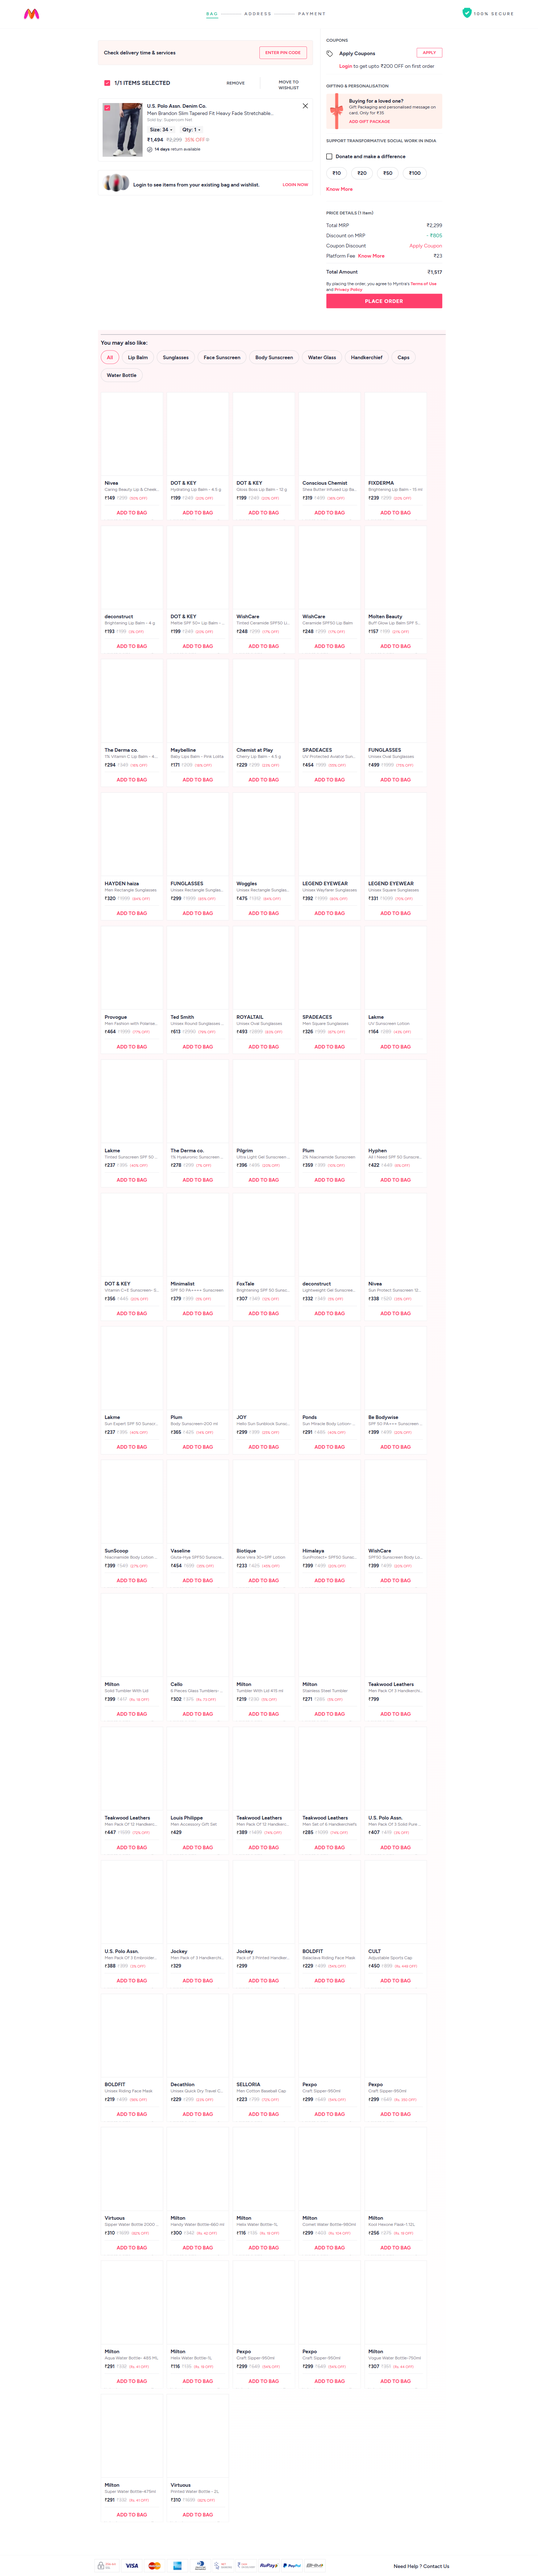
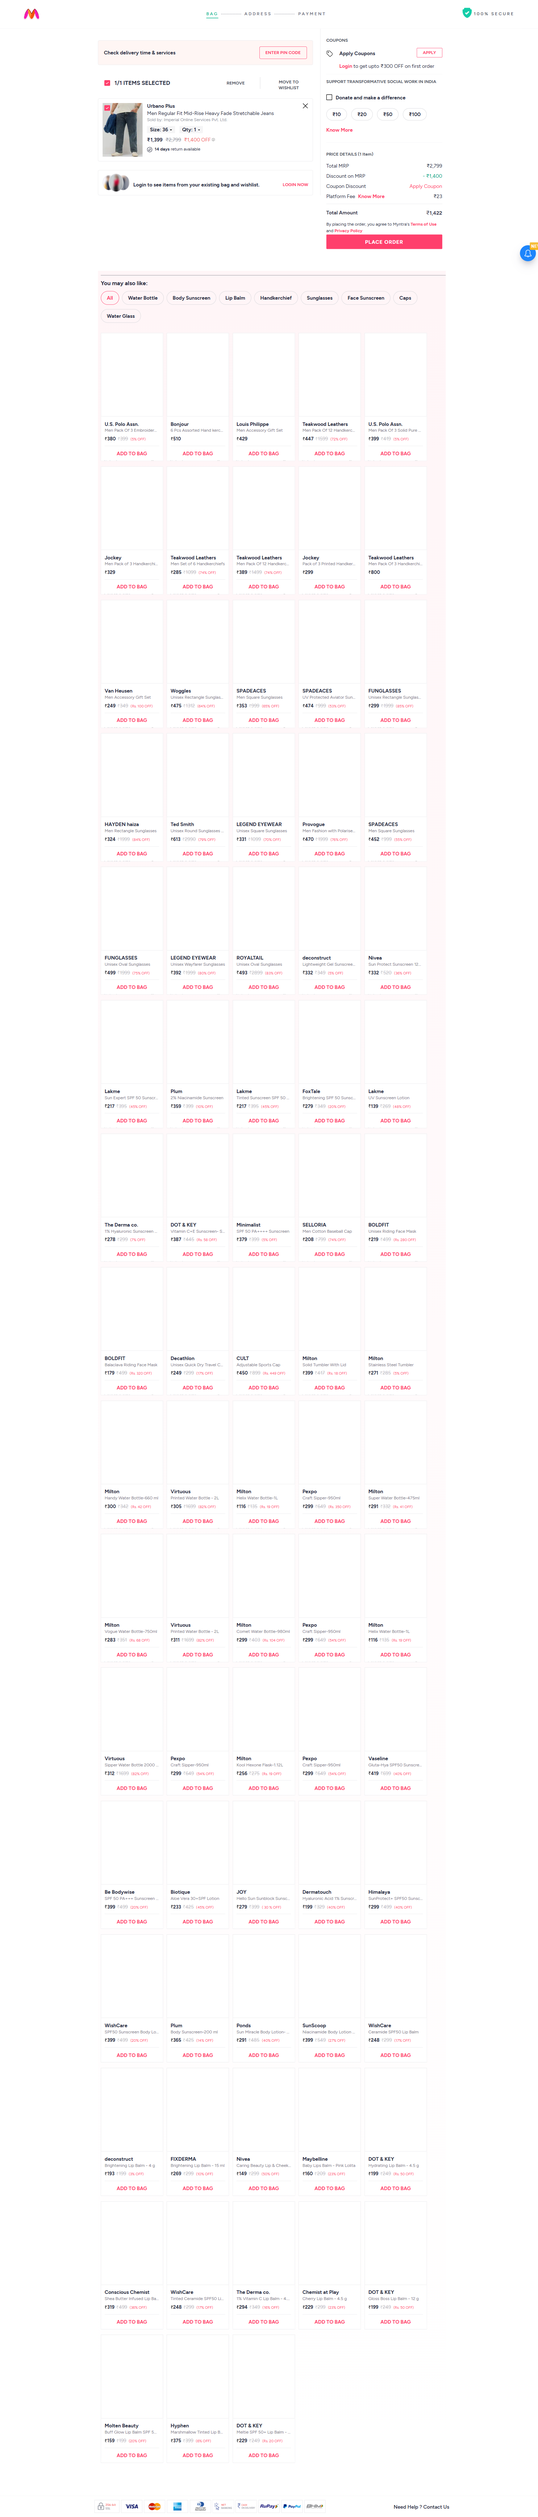
pw

diff --git a/tests/datadriven2.spec.ts b/tests/datadriven2.spec.ts
@@ -1,0 +1,45 @@
+import { expect, test, Page, Locator } from "@playwright/test";
+import loginData from "../testdata/credentials.json";
+
+test("datadriven testing-2", async ({ page }) => {
+  for (const environment in loginData) {
+    console.log("Environment", environment);
+    if (environment === process.env.ENV) {
+      console.log(`Executing the test case in ${environment} environment`);
+      const environmentData = loginData[environment as keyof typeof loginData];
+      await page.goto(environmentData.url);
+      await page.getByPlaceholder("E-Mail Address").fill(environmentData.username);
+      await page.getByPlaceholder("Password").fill(environmentData.password);
+      await page.locator("input[value='Login']").click();
+    }
+  }
+
+  //await page.pause();
+});
+
+test("datadriven testing-4", async ({ page }) => {
+      const environmentData = loginData[process.env.ENV as keyof typeof loginData];
+      await page.goto(environmentData.url);
+      await page.getByPlaceholder("E-Mail Address").fill(environmentData.username);
+      await page.getByPlaceholder("Password").fill(environmentData.password);
+      await page.locator("input[value='Login']").click();
+      //await page.pause();
+});
+
+Object.entries(loginData).forEach(([environment, details]) => {
+  test(`datadriven testing ${environment}`, async ({ page }) => {
+    console.log("Environment", environment);
+    if (environment === process.env.ENV) {
+      console.log(`Executing the test case in ${environment} environment`);
+      await page.goto(details.url);
+      await page.getByPlaceholder("E-Mail Address").fill(details.username);
+      await page.getByPlaceholder("Password").fill(details.password);
+      await page.locator("input[value='Login']").click();
+    }
+  });
+});
+
+// In Mac, ENV="QA" npx playwright test tests/datadriven2.spec.ts
+
+//In windows, $env:ENV="QA"
+//npx playwright test tests/datadriven2.spec.ts

diff --git a/tests/frames.spec.ts b/tests/frames.spec.ts
@@ -15,14 +15,14 @@ test.describe("Handling Iframes",()=>{
         await expect(iframe.getByRole('paragraph')).toContainText("This is an embedded inline frame.");
         await iframe.getByRole('button', {name:'Click Me Inside'}).click();
         await expect(iframe.locator("#iframeMsg")).toContainText("Button inside iframe was clicked!");
-        await page.pause();
+        //await page.pause();
     })
 })
 
 test("handling single frame", async({page})=>{
     await page.goto("https://demo.automationtesting.in/Frames.html");
     await page.frameLocator("#singleframe").getByRole("textbox").fill("Playwright");
-    await page.pause();
+    //await page.pause();
 })
 
 test("handling nested frames", async({page})=>{
@@ -38,7 +38,7 @@ test("handling nested frames", async({page})=>{
     console.log(await outerFrame.getByRole('heading').textContent());
     console.log(await innerFrame.getByRole('heading').textContent());
 
-    await page.pause();
+    //await page.pause();
 })
 
 test("handling single frame without attributes", async({page})=>{
@@ -48,7 +48,7 @@ test("handling single frame without attributes", async({page})=>{
 
     page.frames().filter(frame => frame.url().includes('SingleFrame.html'))[0].getByRole('textbox').fill("Playwright automation");
 
-    await page.pause();
+    //await page.pause();
 })
 
 test("handling nested frames without attributes", async({page})=>{
@@ -64,5 +64,5 @@ test("handling nested frames without attributes", async({page})=>{
     
     await innerFrame.getByRole("textbox").fill("Playwright with Typescript");
 
-    await page.pause();
+   // await page.pause();
 })

diff --git a/tests/calendar.spec.ts b/tests/calendar.spec.ts
@@ -1,0 +1,33 @@
+import { expect, test, Page, Locator } from '@playwright/test'
+
+const APP_URL = "https://nagarjunreddykasu.github.io/web-automation-practice-site/";
+
+test.beforeEach(async({page})=>{
+    await page.goto(`${APP_URL}`);
+    await page.getByRole("link", {name:'Interactions'}).click();
+})
+
+test("select a date from calendar", async({page})=>{
+    await page.getByPlaceholder("Select a date").click();
+    await page.getByRole('button', {name:'25'}).click();
+
+    //await page.pause();
+})
+
+test("select a current date", async({page})=>{
+    await page.getByPlaceholder("Select a date").click();
+    await page.locator(".dp-day.today").click();
+    //await page.pause();
+
+})
+
+test("select a future date @sanity", async({page})=>{
+    await page.getByPlaceholder("Select a date").click();
+    while(await page.locator('#dpMonthYear').innerText() !== 'December 2026'){
+        //await page.locator('#dpNext').click();
+        await page.getByRole('button', {name:'▶'}).click();
+        //await page.waitForTimeout(2000);
+    }
+
+    await page.getByRole('button', {name:'31'}).click();
+})

diff --git a/tests/dragdrop.spec.ts b/tests/dragdrop.spec.ts
@@ -1,0 +1,21 @@
+import { expect, test, Page, Locator } from '@playwright/test'
+
+const APP_URL = "https://nagarjunreddykasu.github.io/web-automation-practice-site/";
+
+test.beforeEach(async({page})=>{
+    await page.goto(`${APP_URL}`);
+    await page.getByRole("link", {name:'Interactions'}).click();
+})
+
+test("handle drag and drop", async({page})=>{
+
+    await page.getByPlaceholder("Select a date").scrollIntoViewIfNeeded();
+    //sourceitem.dragTo(target/destination)
+    const sourceItem = page.locator("#dndSource [data-id='1']");
+    const target = page.locator("#dndTarget");
+    await sourceItem.dragTo(target);
+    await expect(page.locator("#dndOutput")).toContainText("Available: 3, Dropped: 1");
+
+    await page.pause();
+
+})

diff --git a/tests/myntra.spec.ts b/tests/myntra.spec.ts
@@ -28,7 +28,7 @@ test("validate the product in myntra", async({page})=>{
     if(!childWindow)
         throw new Error("Child window is not found");
 
-    await childWindow.getByRole("button", {name:'34'}).click();
+    await childWindow.getByRole("button", {name:'36'}).click();
     //await childWindow.getByRole("button", {name:'ADD TO BAG'}).click();
     await childWindow.getByText("ADD TO BAG", {exact:true}).click();
     await childWindow.getByText("Bag", {exact:true}).click();
@@ -39,5 +39,5 @@ test("validate the product in myntra", async({page})=>{
 
     await page.getByText("Bag", {exact:true}).click();
     await expect(page.getByText(lastProductName)).toBeVisible();
-    await page.pause();
+    //await page.pause();
 })

diff --git a/tests/datadriven1.spec.ts b/tests/datadriven1.spec.ts
@@ -1,0 +1,14 @@
+import { expect, test, Page, Locator } from '@playwright/test'
+import loginData from '../testdata/login.json'
+
+test("Lambdatest login1", async({page})=>{
+    for(const data of loginData){
+        await page.goto(data.url);
+        await page.getByPlaceholder("E-Mail Address").fill(data.username);
+        await page.getByPlaceholder("Password").fill(data.password);
+        await page.locator("input[value='Login']").click();
+    }
+    
+    await page.pause();
+
+})

diff --git a/playwright.config.ts b/playwright.config.ts
@@ -24,7 +24,7 @@ export default defineConfig({
   /* Reporter to use. See https://playwright.dev/docs/test-reporters */
   reporter: 'html',
 
-  timeout:120000,
+  timeout:30000,
   /* Shared settings for all the projects below. See https://playwright.dev/docs/api/class-testoptions. */
   use: {
     /* Base URL to use in actions like `await page.goto('')`. */

diff --git a/tests/test-2.spec.ts b/tests/test-2.spec.ts
@@ -1,0 +1,5 @@
+import { test, expect } from '@playwright/test';
+
+test('test', async ({ page }) => {
+  await page.goto('https://www.myntra.com/');
+});

diff --git a/tests/test-1.spec.ts b/tests/test-1.spec.ts
@@ -1,0 +1,5 @@
+import { test, expect } from '@playwright/test';
+
+test('test', async ({ page }) => {
+  // Recording...
+});
